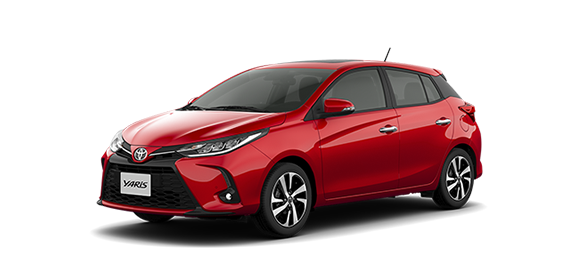
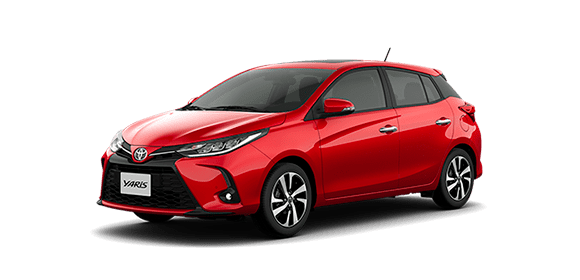
Imágenes optimizadas y animaciones agregadas

diff --git a/pages/modelos.html b/pages/modelos.html
@@ -4,8 +4,10 @@
 <head>
     <meta charset="UTF-8">
     <meta name="viewport" content="width=device-width, initial-scale=1.0">
+    <meta name="keywords" content="Autos, Toyota, Nuevos, Modelos, 0km, Moderno">
     <title>Toyota_Modelos</title>
     <link rel="shortcut icon" href="../media/logo-toyota.svg" type="image/x-icon">
+    <link rel="stylesheet" href="https://unpkg.com/aos@next/dist/aos.css" />
     <link href="https://cdn.jsdelivr.net/npm/bootstrap@5.3.2/dist/css/bootstrap.min.css" rel="stylesheet"
         integrity="sha384-T3c6CoIi6uLrA9TneNEoa7RxnatzjcDSCmG1MXxSR1GAsXEV/Dwwykc2MPK8M2HN" crossorigin="anonymous">
     <link rel="stylesheet" href="../estilos/styles.css">
@@ -53,7 +55,7 @@
 
     <main>
         <section>
-            <div class="modelos-gral">
+            <div class="modelos-gral" data-aos="fade-up">
                 <div>
                     <h1>Modelos</h1>
                 </div>
@@ -61,7 +63,7 @@
                     <h2>Autos</h2>
                 </div>
             </div>
-            <div class="autos" id="autos">
+            <div class="autos" data-aos="fade-up" id="autos">
                 <div>
                     <h3>Etios Hatchback</h3>
                     <img src="../media/Etios.png" alt="Foto de Toyota Etios Rojo" name="etios">
@@ -79,7 +81,7 @@
                     <img src="../media/Etios-Sedan.png" alt="Foto de Toyota Etios Sedán gris oscuro" name="etios-sedan">
                 </div>
             </div>
-            <div id="SUV">
+            <div id="SUV" data-aos="fade-up">
                 <div class="modelos-gral">
                     <h2>SUV</h2>
                 </div>
@@ -98,7 +100,7 @@
                     </div>
                 </div>
             </div>
-            <div id="pick-up">
+            <div id="pick-up" data-aos="fade-up">
                 <div class="modelos-gral">
                     <h2>Pick-Ups</h2>
                 </div>
@@ -113,7 +115,7 @@
                     </div>
                 </div>
             </div>
-            <div id="Hibridos">
+            <div id="Hibridos" data-aos="fade-up">
                 <div class="modelos-gral">
                     <h2>Híbridos</h2>
                 </div>
@@ -136,7 +138,7 @@
                     </div>
                 </div>
             </div>
-            <div id="Deportivos">
+            <div id="Deportivos" data-aos="fade-up">
                 <div class="modelos-gral">
                     <h2>Deportivos</h2>
                 </div>
@@ -171,7 +173,10 @@
         integrity="sha384-C6RzsynM9kWDrMNeT87bh95OGNyZPhcTNXj1NW7RuBCsyN/o0jlpcV8Qyq46cDfL"
         crossorigin="anonymous"></script>
     <script src="https://code.iconify.design/iconify-icon/1.0.7/iconify-icon.min.js"></script>
-
+    <script src="https://unpkg.com/aos@next/dist/aos.js"></script>
+    <script>
+        AOS.init();
+    </script>
 </body>
 
 </html>

diff --git a/index.html b/index.html
@@ -4,8 +4,10 @@
 <head>
     <meta charset="UTF-8">
     <meta name="viewport" content="width=device-width, initial-scale=1.0">
+    <meta name="keywords" content="Vehiculos, Toyota, Nuevos, Planes de ahorro">
     <title>Toyota Coderhouser</title>
     <link rel="shortcut icon" href="./media/logo-toyota.svg" type="image/x-icon">
+    <link rel="stylesheet" href="https://unpkg.com/aos@next/dist/aos.css" />
     <link href="https://cdn.jsdelivr.net/npm/bootstrap@5.3.2/dist/css/bootstrap.min.css" rel="stylesheet"
         integrity="sha384-T3c6CoIi6uLrA9TneNEoa7RxnatzjcDSCmG1MXxSR1GAsXEV/Dwwykc2MPK8M2HN" crossorigin="anonymous">
     <link rel="stylesheet" href="./estilos/styles.css">
@@ -81,7 +83,7 @@
         </div>
 
         <section>
-            <div class="autos-importantes">
+            <div class="autos-importantes" data-aos="fade-up">
                 <div>
                     <h2>GR Yaris</h2>
                     <a href="./pages/modelos.html#GR-Yaris"> <img src="./media/GR-Yaris.png"
@@ -93,7 +95,8 @@
                 </div>
                 <div id="sw4-imagen">
                     <h2>SW4</h2>
-                    <a href="./pages/modelos.html#SW4"> <img src="./media/SUV-SW4.png" alt="Foto de Toyota SW4 gris"></a>
+                    <a href="./pages/modelos.html#SW4"> <img src="./media/SUV-SW4.png"
+                            alt="Foto de Toyota SW4 gris"></a>
                 </div>
             </div>
 
@@ -132,10 +135,10 @@
 
             <div class="divisor"></div>
 
-            <div class="consegui-tu-toyota">
+            <div class="consegui-tu-toyota" data-aos="fade-up">
                 <h2>Conseguí tu primer Toyota</h2>
             </div>
-            <div class="categorias-toyota">
+            <div class="categorias-toyota" data-aos="fade-up">
                 <div class="col-lg-3 col-sm-6">
                     <a href="./pages/modelos.html#autos"><img src="./media/Etios-Hatchback.png"
                             alt="Foto Toyota Etios rojo"></a>
@@ -160,7 +163,7 @@
 
 
             <div class="divisor-fino"></div>
-            <div class="index-abajo">
+            <div class="index-abajo" data-aos="fade-up">
                 <div>
                     <a href="./pages/contacto.html">
                         <img src="./media/atencion-cliente.jpg" alt="Atencion al cliente"></a>
@@ -196,7 +199,10 @@
         integrity="sha384-C6RzsynM9kWDrMNeT87bh95OGNyZPhcTNXj1NW7RuBCsyN/o0jlpcV8Qyq46cDfL"
         crossorigin="anonymous"></script>
     <script src="https://code.iconify.design/iconify-icon/1.0.7/iconify-icon.min.js"></script>
-
+    <script src="https://unpkg.com/aos@next/dist/aos.js"></script>
+    <script>
+        AOS.init();
+    </script>
 </body>
 
 </html>

diff --git a/pages/contacto.html b/pages/contacto.html
@@ -4,6 +4,7 @@
 <head>
     <meta charset="UTF-8">
     <meta name="viewport" content="width=device-width, initial-scale=1.0">
+    <meta name="keywords" content="Toyota, Contacto, Concesionarios, Sucursales">
     <title>Toyota Contacto</title>
     <link rel="shortcut icon" href="../media/logo-toyota.svg" type="image/x-icon">
     <link href="https://cdn.jsdelivr.net/npm/bootstrap@5.3.2/dist/css/bootstrap.min.css" rel="stylesheet"
@@ -111,7 +112,7 @@
                 </div>
             </form>
             <div id="mapa">
-                <h2>Sucursales</h2>
+                <h2>Concesionarios</h2>
                 <iframe
                     src="https://www.google.com/maps/embed?pb=!1m16!1m12!1m3!1d52550.1779938633!2d-58.43683402520168!3d-34.59439642290228!2m3!1f0!2f0!3f0!3m2!1i1024!2i768!4f13.1!2m1!1stoyota!5e0!3m2!1ses!2sar!4v1701367647710!5m2!1ses!2sar"
                     width="600" height="450" style="border:0;" allowfullscreen="" loading="lazy"

diff --git a/pages/sobre-nosotros.html b/pages/sobre-nosotros.html
@@ -4,6 +4,7 @@
 <head>
     <meta charset="UTF-8">
     <meta name="viewport" content="width=device-width, initial-scale=1.0">
+    <meta name="keywords" content="Toyota, Sobre nosotros, Historia, Autos">
     <title>Toyota Sobre Nosotros</title>
     <link rel="shortcut icon" href="../media/logo-toyota.svg" type="image/x-icon">
     <link href="https://cdn.jsdelivr.net/npm/bootstrap@5.3.2/dist/css/bootstrap.min.css" rel="stylesheet"

diff --git a/pages/service.html b/pages/service.html
@@ -4,6 +4,7 @@
 <head>
     <meta charset="UTF-8">
     <meta name="viewport" content="width=device-width, initial-scale=1.0">
+    <meta name="keywords" content="Toyota, Autos, Service, Mecanico, Arreglos">
     <title>Toyota Service</title>
     <link rel="shortcut icon" href="../media/logo-toyota.svg" type="image/x-icon">
     <link href="https://cdn.jsdelivr.net/npm/bootstrap@5.3.2/dist/css/bootstrap.min.css" rel="stylesheet"
